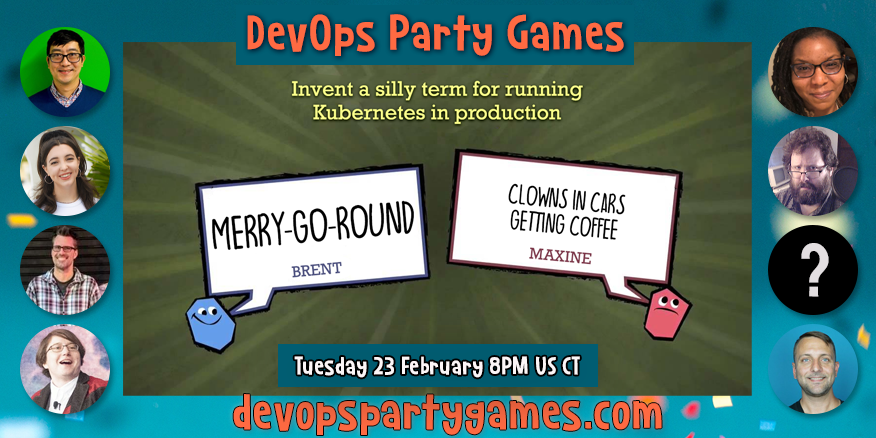
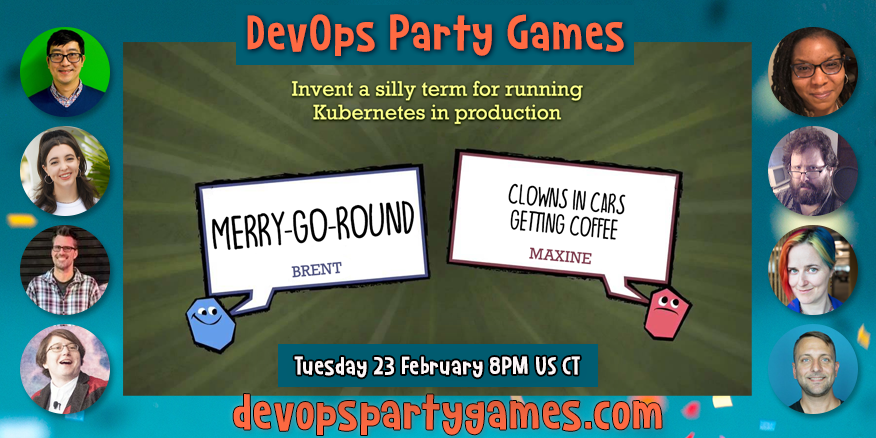
Update with tiffany

Changed region(s): [[0.863, 0.5046, 0.9863, 0.742]]

diff --git a/src/pages/posts/s02e04.md b/src/pages/posts/s02e04.md
@@ -24,7 +24,7 @@ Join the livestream at [twitch.tv/mattstratton](https://twitch.tv/mattstratton)
 <a href = "https://twitter.com/nellshamrell" class = "player-episode-page" target = "_blank"><img src = "/images/players/nell-shamrell-harrington.png" alt="Nell Shamrell-Harrington" width="200" height="100" class = "player-episode-page"></a>
 <a href = "https://twitter.com/tracypholmes" class = "player-episode-page" target = "_blank"><img src = "/images/players/tracy-holmes.png" alt="Tracy Holmes" width="200" height="100" class = "player-episode-page"></a>
 <a href = "https://twitter.com/rycar" class = "player-episode-page" target = "_blank"><img src = "/images/players/nick-rycar.png" alt="Nick Rycar" width="200" height="100" class = "player-episode-page"></a>
-<a href = "https://twitter.com/devopspartygame" class = "player-episode-page" target = "_blank"><img src = "/images/players/mystery-guest2.png" alt="Mystery Player" width="200" height="100" class = "player-episode-page"></a>
+<a href = "https://twitter.com/thelongshanx" class = "player-episode-page" target = "_blank"><img src = "/images/players/tiffany-longworth.png" alt="Tiffany Longworth" width="200" height="100" class = "player-episode-page"></a>
 <a href = "https://twitter.com/ahidalgosre" class = "player-episode-page" target = "_blank"><img src = "/images/players/alex-hidalgo.png" alt="Alex Hidalgo" width="200" height="100" class = "player-episode-page"></a>
 
 <br clear = "all">
